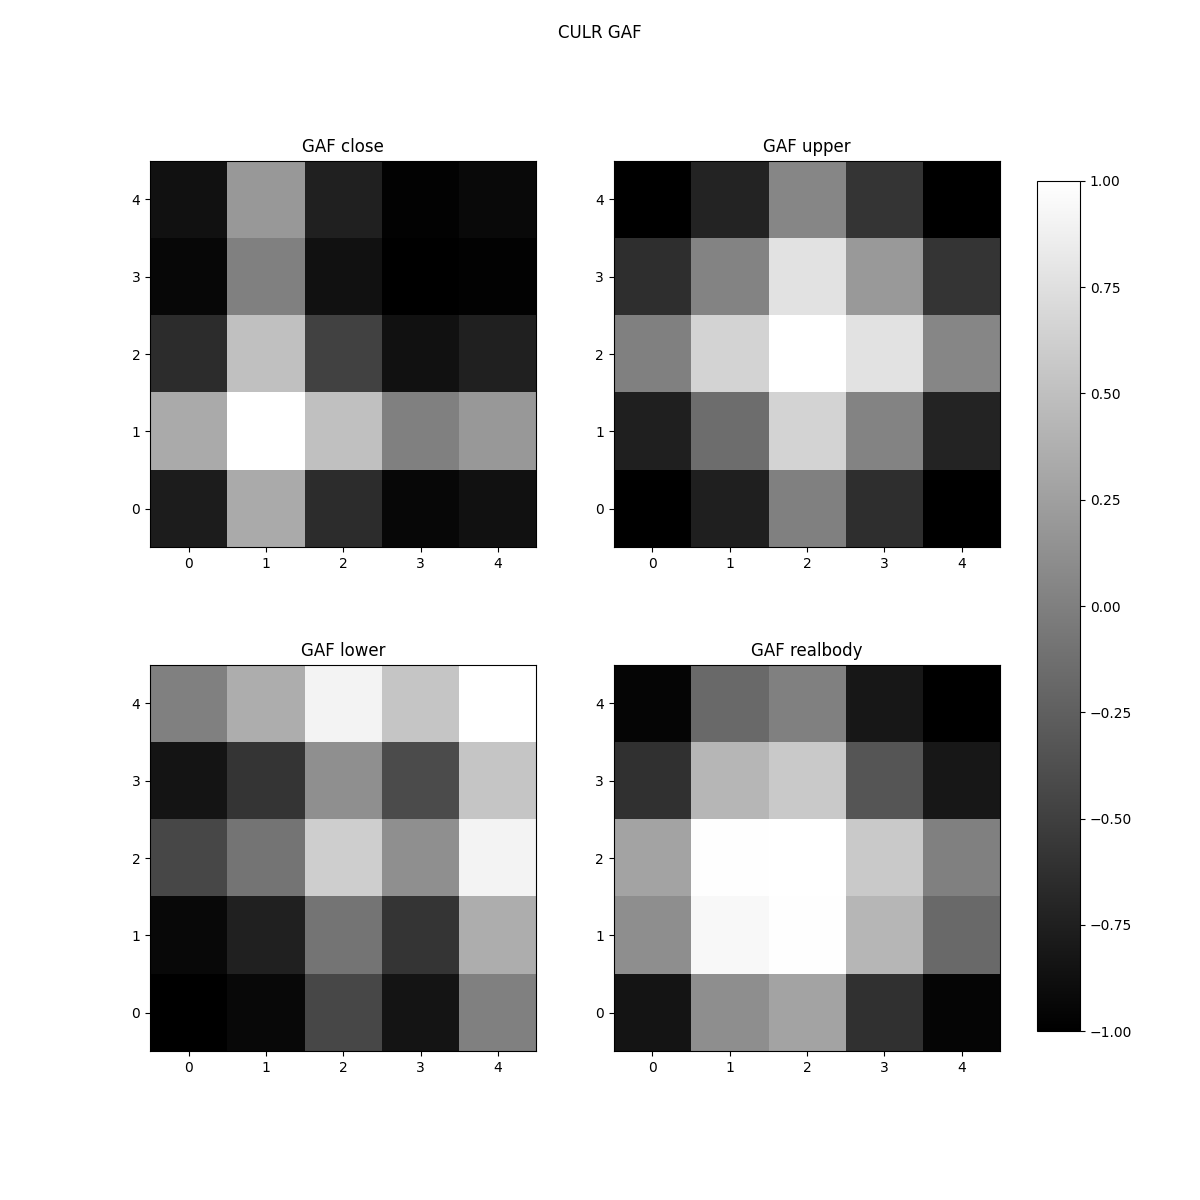
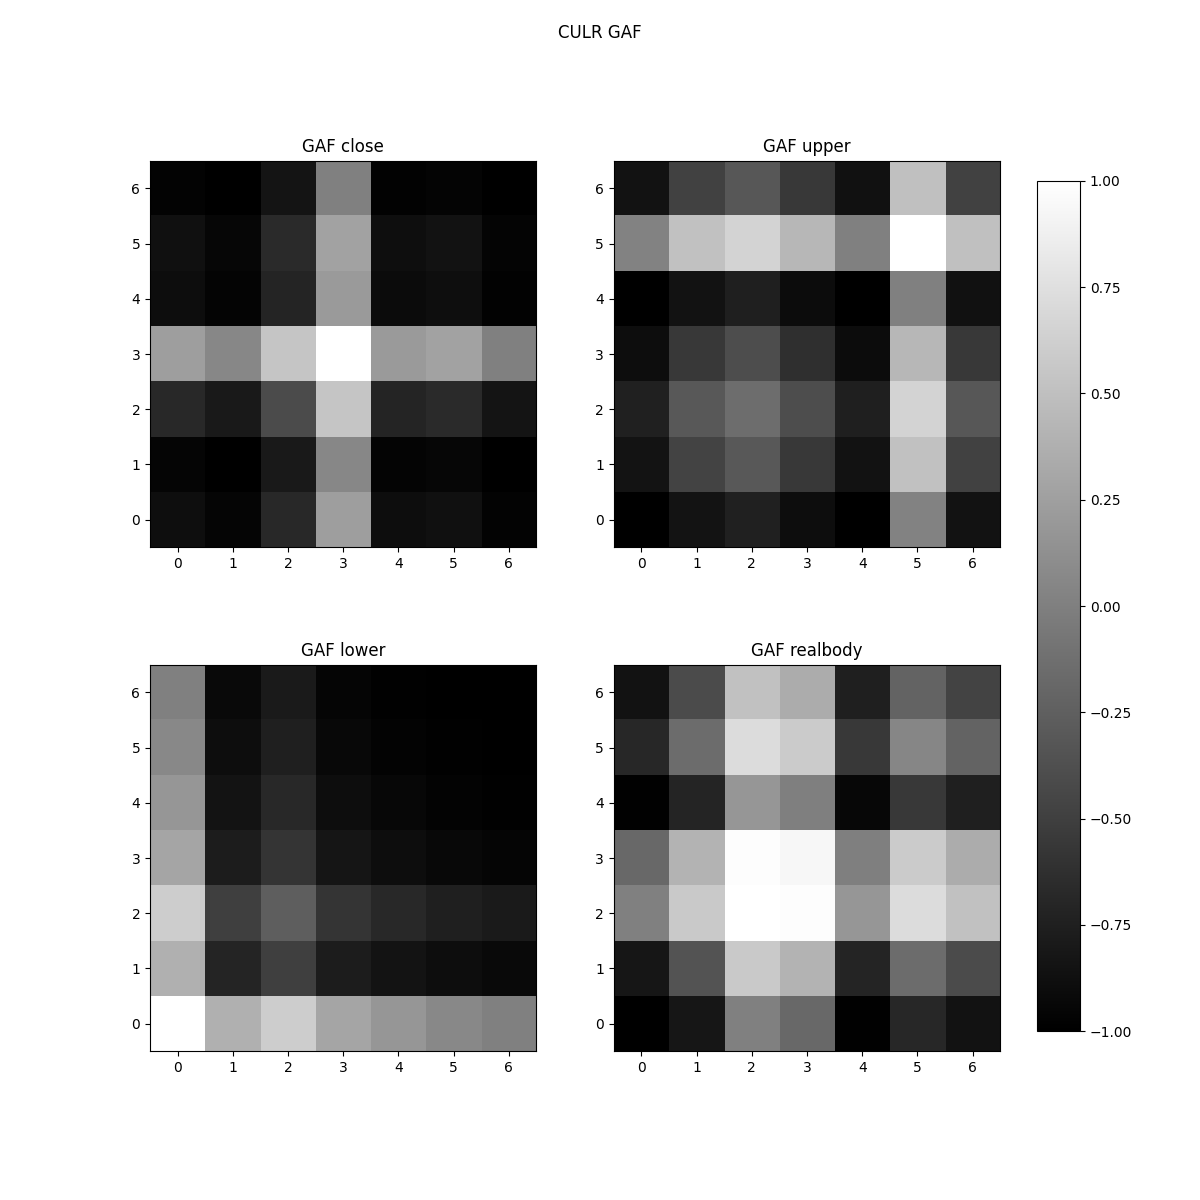
update output and change output img be designated pixel size

diff --git a/culr2gaf.py b/culr2gaf.py
@@ -1,25 +1,30 @@
 import matplotlib.pyplot as plt
 import numpy as np
 from utils.util_process import *
+from PIL import Image
+from matplotlib import cm
 
 np.set_printoptions(suppress=True)
 
-# ETH OHLC from 2023 12 11 ~ 2023 12 15
+# ETH OHLC from 2023 12 11 ~ 2023 12 18
 data = np.array([
-    [2315.2, 2317.35, 2235.7, 2240.6],
-    [2261.96, 2331.61, 2237.04, 2315.31],
-    [2204.09, 2283.90, 2148.74, 2260.15],
-    [2224.46, 2243.31, 2168.17, 2203.47],
-    [2351.73, 2354.99, 2164.26, 2225.31]
+    [2352.31, 2354.9, 2133.47, 2224.1],
+    [2224.1, 2242.96, 2165.58, 2202.33],
+    [2202.33, 2284.2, 2145.57, 2260.72],
+    [2260.72, 2332.24, 2231.57, 2316.03],
+    [2316.03, 2318.06, 2201.14, 2220.32],
+    [2220.32, 2261.92, 2210.47, 2227.14],
+    [2227.14, 2245.8, 2190.85, 2194.84],
+    # [2194.84, 2222.91, 2115.85, 2203.75],
 ])
 
 # Reshape the data to match the expected input shape for ohlc2culr
 ohlc = data.reshape(1, *data.shape) # (1, 5, 4) -> (N, ts_n, 4) -> num of instances, length of time series, num of features 
-print(ohlc[0])
+# print(ohlc[0])
 
 # Convert the OHLC data to CULR data
 culr = ohlc2culr(ohlc)
-print(culr[0])
+# print(culr[0])
 
 # Convert the CULR data to GAF
 close = culr[0, :, 0].reshape(1, -1, 1)
@@ -42,6 +47,9 @@ for i, (name, data) in enumerate(CULR.items()):
     gasf = get_gasf(data.reshape(1, -1, 1))
     gasf_mean = gasf[0].mean(axis=-1)
 
+
+    # print(np.array2string(gasf_mean, precision=4, separator=' ', suppress_small=True, max_line_width=1000))
+
     # Display the GASF image in the subplot
     ax = axs[i // 2, i % 2]
     # im = ax.imshow(gasf_mean, cmap='rainbow', origin='lower')
@@ -51,7 +59,7 @@ for i, (name, data) in enumerate(CULR.items()):
 # Add a colorbar to the figure
 fig.colorbar(im, ax=axs.ravel().tolist(), fraction=0.0457, pad=0.04)
 fig.savefig('./results/culr/culr_gaf.png')
-plt.show()
+# plt.show()
 
 
 # Seperate
@@ -59,18 +67,13 @@ for i, (name, data) in enumerate(CULR.items()):
     gasf = get_gasf(data.reshape(1, -1, 1))
     gasf_mean = gasf[0].mean(axis=-1)
 
-    # Create a new figure for each image
-    fig, ax = plt.subplots()
+    # print(gasf_mean)
 
-    # Display the GASF image in the subplot
-    im = ax.imshow(gasf_mean, cmap='grey', origin='lower')
-    ax.set_title(f'GAF {name}')
+    my_array = np.array(gasf_mean)
 
-    # Add a colorbar to the figure
-    # fig.colorbar(im, fraction=0.0457, pad=0.04)
+    dpi = 100.0
+    w, h = my_array.shape[1]/dpi, my_array.shape[0]/dpi
+    fig = plt.figure(figsize=(w,h), dpi=dpi)
+    fig.figimage(my_array, cmap='gray')
+    plt.savefig(f'results/culr/gaf_{name}.png')
 
-    # Save the current figure (including the subplot) in a separate file
-    plt.savefig(f'results/culr/gaf_{name}.png', dpi=500)
-
-    # Close the figure to free up memory
-    plt.close(fig)

diff --git a/ohlc2gaf.py b/ohlc2gaf.py
@@ -4,13 +4,16 @@ from utils.util_process import *
 
 np.set_printoptions(suppress=True)
 
-# ETH OHLC from 2023 12 11 ~ 2023 12 15
+# ETH OHLC from 2023 12 11 ~ 2023 12 18
 data = np.array([
-    [2315.2, 2317.35, 2235.7, 2240.6],
-    [2261.96, 2331.61, 2237.04, 2315.31],
-    [2204.09, 2283.90, 2148.74, 2260.15],
-    [2224.46, 2243.31, 2168.17, 2203.47],
-    [2351.73, 2354.99, 2164.26, 2225.31]
+    [2352.31, 2354.9, 2133.47, 2224.1],
+    [2224.1, 2242.96, 2165.58, 2202.33],
+    [2202.33, 2284.2, 2145.57, 2260.72],
+    [2260.72, 2332.24, 2231.57, 2316.03],
+    [2316.03, 2318.06, 2201.14, 2220.32],
+    [2220.32, 2261.92, 2210.47, 2227.14],
+    [2227.14, 2245.8, 2190.85, 2194.84],
+    # [2194.84, 2222.91, 2115.85, 2203.75],
 ])
 
 # Reshape the data to match the expected input shape for ohlc2culr
@@ -60,13 +63,15 @@ for i, (name, data) in enumerate(OHLC.items()):
 
     # Display the GASF image in the subplot
     im = ax.imshow(gasf_mean, cmap='grey', origin='lower')
-    ax.set_title(f'GAF {name}')
+    # ax.set_title(f'GAF {name}')
 
     # Add a colorbar to the figure
     # fig.colorbar(im, fraction=0.0457, pad=0.04)
 
+    ax.axis('off')
+    
     # Save the current figure (including the subplot) in a separate file
-    plt.savefig(f'results/ohlc/gaf_{name}.png', dpi=500)
+    plt.savefig(f'results/ohlc/gaf_{name}.png', bbox_inches='tight')
 
     # Close the figure to free up memory
     plt.close(fig)
